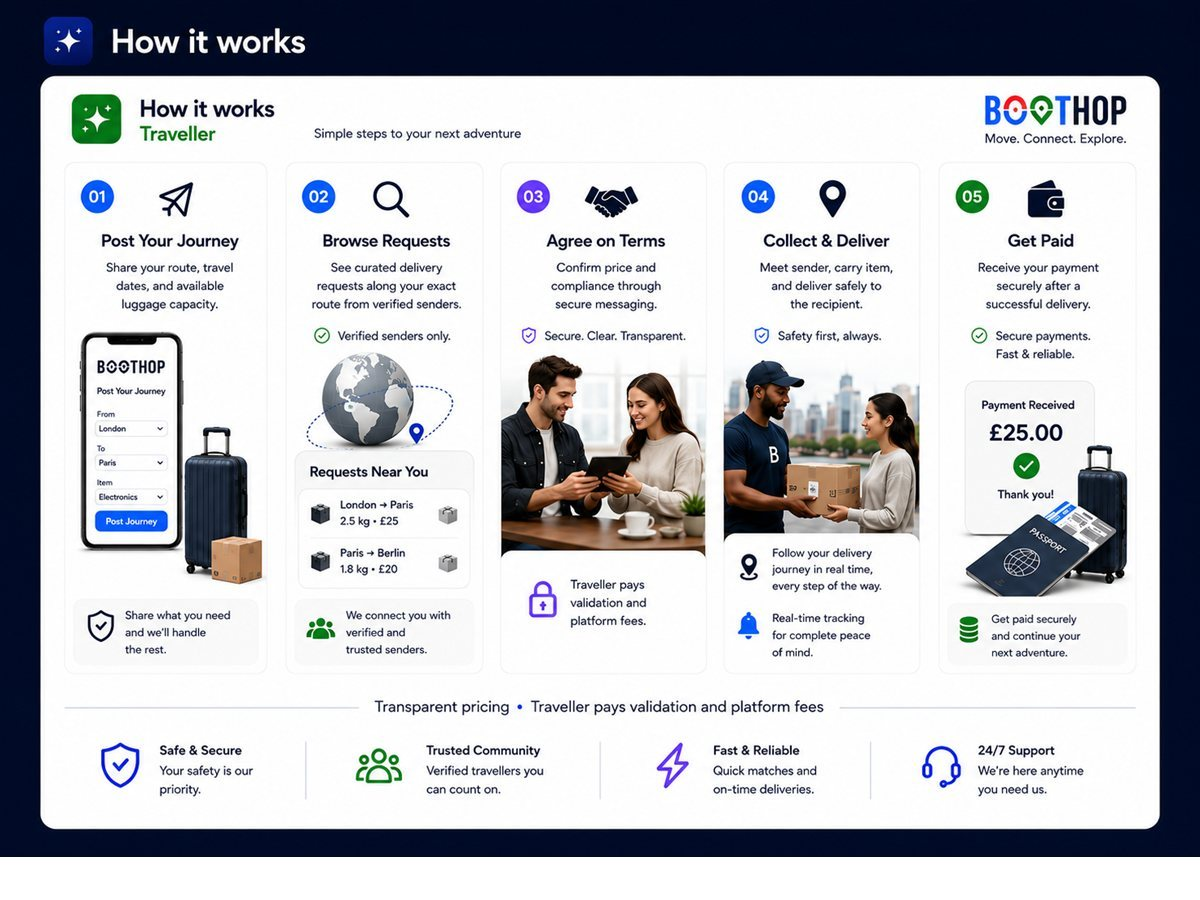
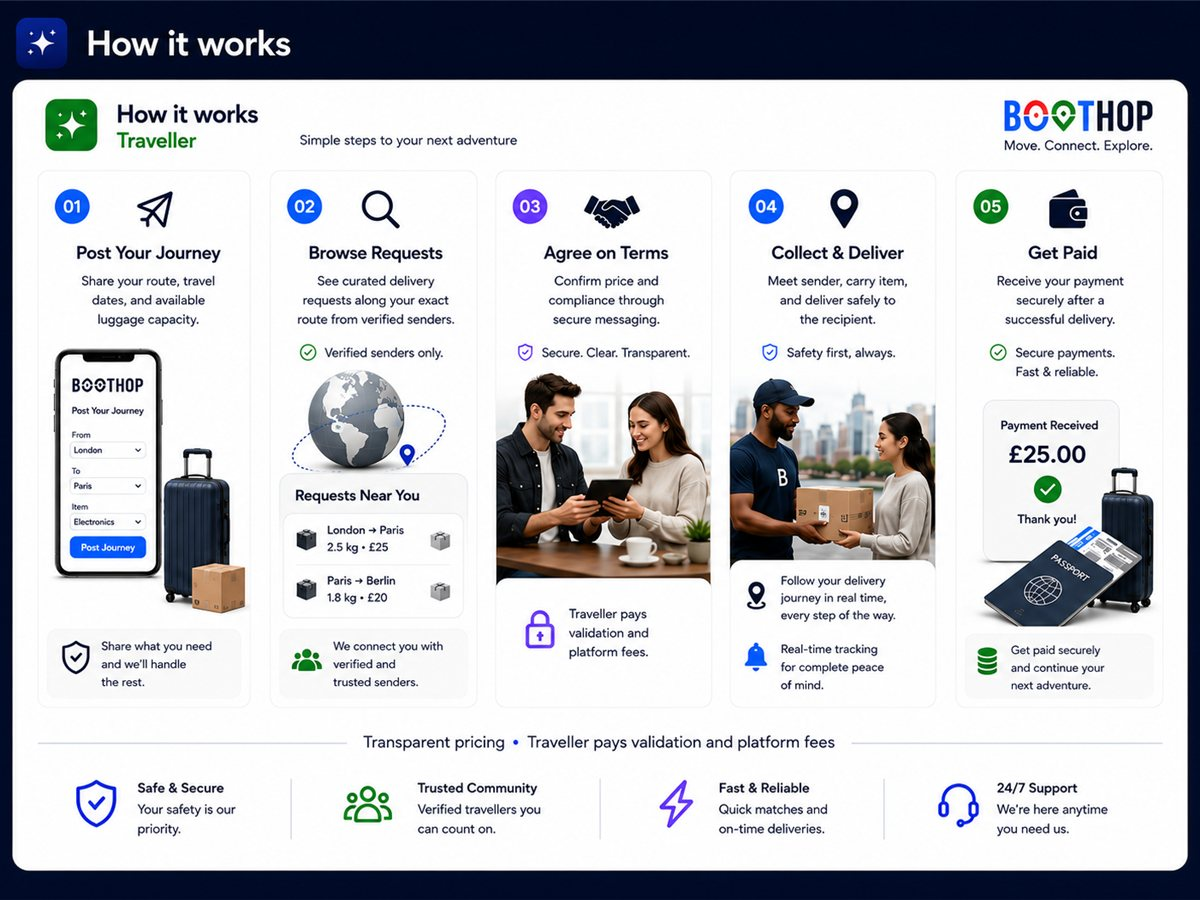
Fix traveller card content scale + bigger cards at 1440px wide, locked 4:3 ratio

diff --git a/src/app/how-it-works/page.tsx b/src/app/how-it-works/page.tsx
@@ -263,14 +263,14 @@ export default function HowItWorksPage() {
       </section>
 
       {/* ── BOTH DIAGRAMS SIDE BY SIDE ── */}
-      <section className="relative px-6 pb-16">
-        <div className="max-w-7xl mx-auto">
-          <div className="grid md:grid-cols-2 gap-6 lg:gap-10">
+      <section className="relative px-4 md:px-6 pb-16">
+        <div className="max-w-[1440px] mx-auto">
+          <div className="grid md:grid-cols-2 gap-4 lg:gap-6">
 
             {/* Traveller */}
             <div className="flex flex-col">
-              <div className="flex items-center justify-between mb-4">
-                <span className="text-sm font-semibold text-white/75">Traveller — step by step</span>
+              <div className="flex items-center justify-between mb-3">
+                <span className="text-sm font-semibold text-white/80 tracking-wide">Traveller — step by step</span>
                 <a
                   href="/images/traveller-diagram.jpg"
                   target="_blank"
@@ -282,8 +282,8 @@ export default function HowItWorksPage() {
                 </a>
               </div>
               <div
-                className="rounded-2xl overflow-hidden border border-white/[0.07] transition-all duration-500 hover:-translate-y-1 flex-1"
-                style={{ boxShadow: '0 20px 64px rgba(0,0,0,0.5)' }}
+                className="rounded-2xl overflow-hidden border border-white/[0.07] transition-all duration-500 hover:-translate-y-1"
+                style={{ boxShadow: '0 20px 64px rgba(0,0,0,0.5)', aspectRatio: '4/3' }}
               >
                 <img
                   src="/images/traveller-diagram.jpg"
@@ -301,8 +301,8 @@ export default function HowItWorksPage() {
 
             {/* Sender */}
             <div className="flex flex-col">
-              <div className="flex items-center justify-between mb-4">
-                <span className="text-sm font-semibold text-white/75">Sender — step by step</span>
+              <div className="flex items-center justify-between mb-3">
+                <span className="text-sm font-semibold text-white/80 tracking-wide">Sender — step by step</span>
                 <a
                   href="/images/sender-diagram.jpg"
                   target="_blank"
@@ -314,8 +314,8 @@ export default function HowItWorksPage() {
                 </a>
               </div>
               <div
-                className="rounded-2xl overflow-hidden border border-white/[0.07] transition-all duration-500 hover:-translate-y-1 flex-1"
-                style={{ boxShadow: '0 20px 64px rgba(0,0,0,0.5)' }}
+                className="rounded-2xl overflow-hidden border border-white/[0.07] transition-all duration-500 hover:-translate-y-1"
+                style={{ boxShadow: '0 20px 64px rgba(0,0,0,0.5)', aspectRatio: '4/3' }}
               >
                 <img
                   src="/images/sender-diagram.jpg"